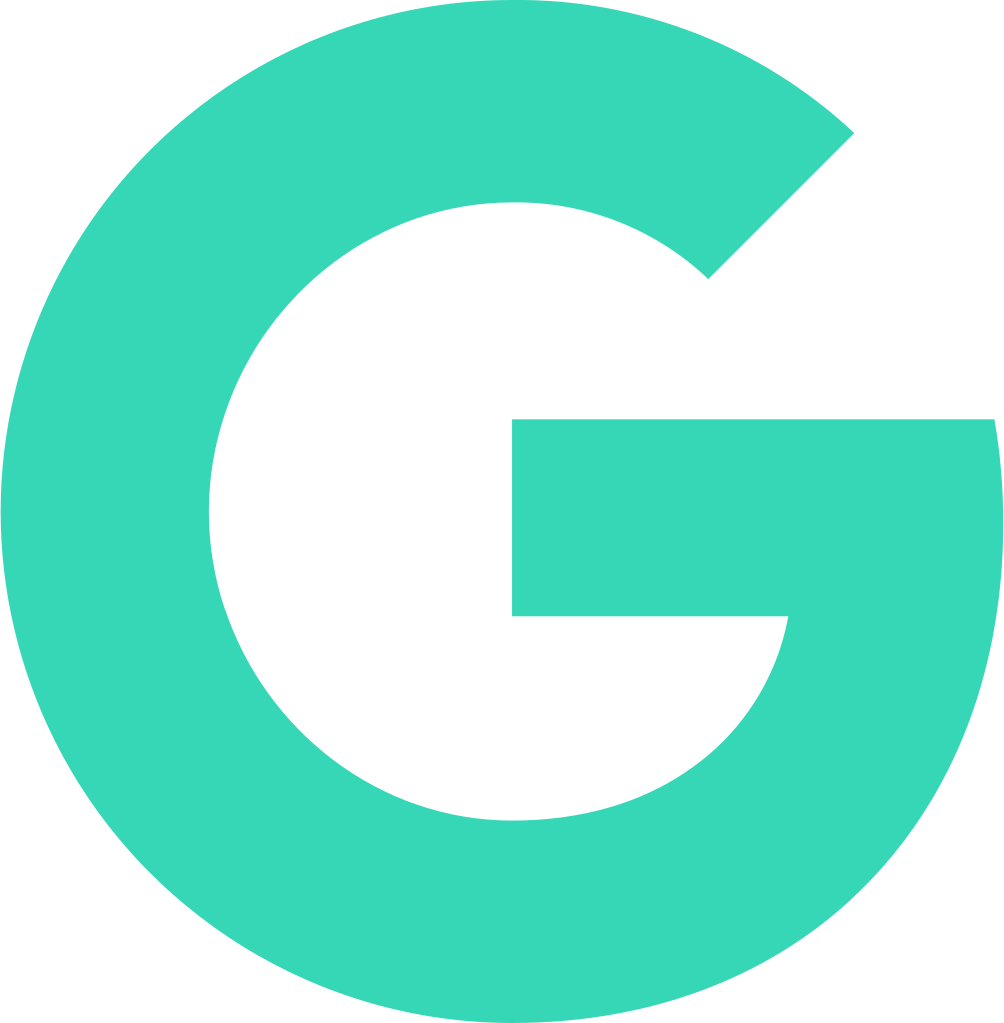
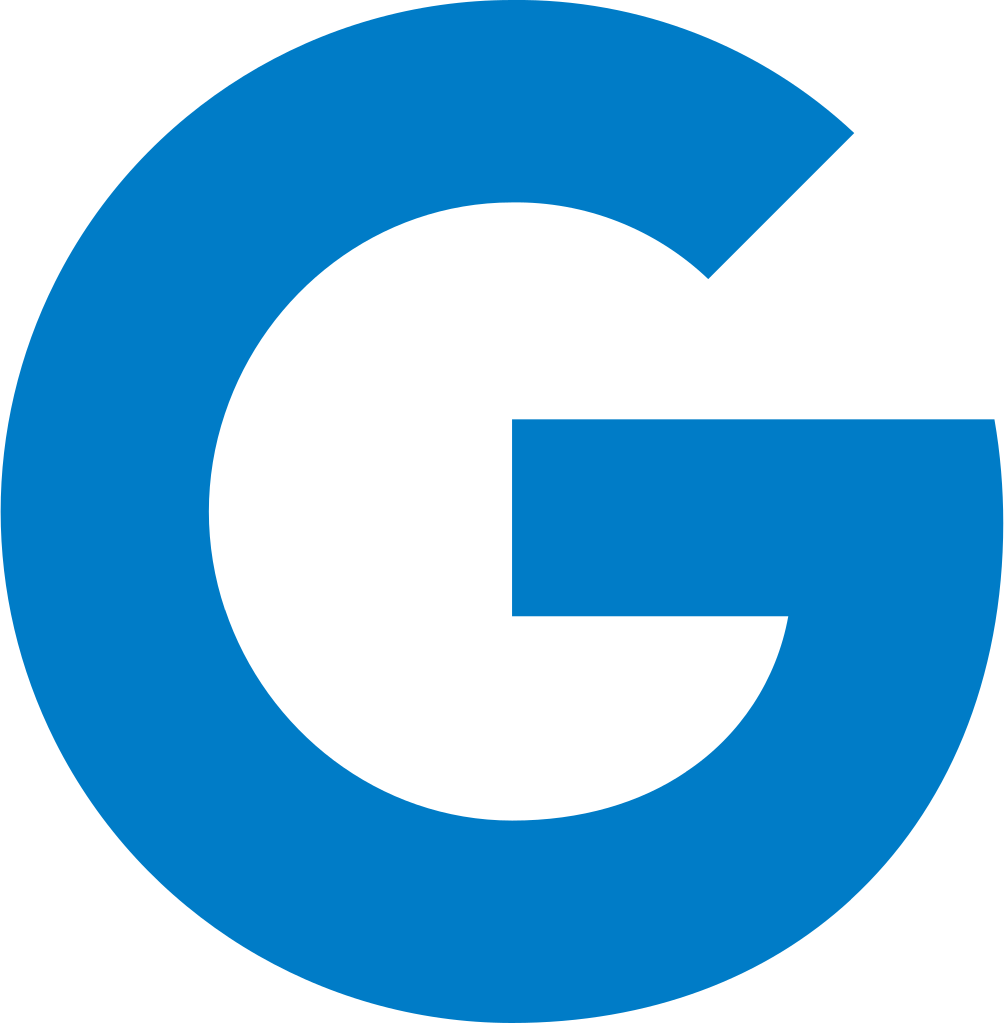
design fixes

diff --git a/src/Components/Elements/Post/Post.jsx b/src/Components/Elements/Post/Post.jsx
@@ -27,7 +27,9 @@ const Post = ({ data, makeBet, currentUser }) => {
   return (
     <div className="container-post">
       <div className="card my-2">
-        <div className="card-name">{data.post.title}</div>
+        <div className="card-name">
+          <h3 style={{ fontWeight: "600" }}>{data.post.title}</h3>
+        </div>
         <hr style={{ width: "100%", color: "#007cc7" }} />
         <div className="card-title">
           <div className="card-info px-3">
@@ -69,7 +71,11 @@ const Post = ({ data, makeBet, currentUser }) => {
         <div className="commentBox">
           {data.comments.map((el) => (
             <div className="commentOne my-1">
-              <img src={el.photoURL} alt="photo" style={{ width: "13%" }} />
+              <img
+                src={el.photoURL}
+                alt="photo"
+                style={{ width: "70px", height: "70px" }}
+              />
               <div className="commentLeft">
                 <p>{el.displayName}</p>
                 <p>{el.createdAt}</p>

diff --git a/src/Components/Pages/Comment/CommentMessage.jsx b/src/Components/Pages/Comment/CommentMessage.jsx
@@ -1,17 +1,14 @@
-import { useContext, useState } from "react"
+import { useContext, useState } from "react";
 import { AuthContext } from "../../../Context/AuthContext";
 
-
 const CommentMessage = ({ text, uid, photoURL, displayName }) => {
+  const [userName, setUserName] = useState("");
 
-  const [userName, setUserName] = useState('');
-  
-  const {currentUser} = useContext(AuthContext);
-  console.log(uid, 'uid');
-  console.log(currentUser, 'user')
+  const { currentUser } = useContext(AuthContext);
+  console.log(uid, "uid");
+  console.log(currentUser, "user");
 
- const commentsClass = uid === currentUser.uid ? 'sent' : 'received'
-
+  const commentsClass = uid === currentUser.uid ? "sent" : "received";
 
   return (
     <div className="mesDes my-2">
@@ -33,4 +30,4 @@ const CommentMessage = ({ text, uid, photoURL, displayName }) => {
   );
 };
 
-export default CommentMessage
+export default CommentMessage;

diff --git a/src/Components/Pages/Register/Register.css b/src/Components/Pages/Register/Register.css
@@ -12,25 +12,23 @@
 }
 
 .glass input {
-  background: linear-gradient(
-    to right bottom,
-    rgba(255, 255, 255, 0.7),
-    rgba(255, 255, 255, 0.3)
-  );
+  background-color: #eefbfb;
   border: none;
   padding: 1rem;
   border-radius: 2rem;
   outline: none;
   text-align: center;
-  width: 40vw;
+  width: 20vw;
   margin: 10px;
 }
 
 .glass button {
-  background: linear-gradient(to right top, #65dfc9, #6cdbeb);
-  border-radius: 1rem;
+  background-color: #007cc7;
+  color: #eefbfb;
+  border-radius: 20px;
   padding: 0.7rem 4rem;
   border: none;
   margin: 10px;
-  width: 40vw;
+  margin-top: 50px;
+  width: 20vw;
 }

diff --git a/src/Components/Elements/Post/Post.css b/src/Components/Elements/Post/Post.css
@@ -7,7 +7,7 @@ p {
   background-color: #007cc7;
   color: #eefbfb;
   border-radius: 20px;
-  padding: 0.7rem 4rem;
+  padding: 0.2rem 2rem;
   border: none;
   margin: 10px;
   outline: none;
@@ -45,10 +45,15 @@ p {
   width: 100%;
   margin: 10px;
 }
-
 .commentLeft {
+  width: 11vw;
+}
+
+.commentLeft p {
   display: flex;
   flex-direction: column;
+
+  color: #eefbfb;
 }
 
 .card-name {
@@ -78,10 +83,14 @@ p {
 
 .commentBox p {
   font-size: 15px;
-  color: black;
+  color: #eefbfb;
 }
 
 .commentOne {
   display: flex;
   flex-direction: row;
+  align-items: ;
+}
+.commentOne img {
+  border-radius: 50%;
 }

diff --git a/src/index.css b/src/index.css
@@ -12,19 +12,18 @@
 }
 
 body {
-  background: linear-gradient(to right top, #65dfc9, #6cdbeb);
-  height: 100vh;
   overscroll-behavior-y: none;
+  height: 100vh;
 }
 
 .dashboard {
   display: flex;
   align-items: center;
-  justify-content: space-around;
+  justify-content: space-evenly;
   flex-direction: column;
   text-align: center;
   background-color: #007cc7;
-  width: 500px;
+  width: 25vw;
   height: 100vh;
 }
 

diff --git a/src/Components/Pages/Register/Register.jsx b/src/Components/Pages/Register/Register.jsx
@@ -39,8 +39,7 @@ const Register = () => {
         placeholder="Введите пароль"
         onChange={changeRegisterHandler}
       />
-      <p>Загрузить фото профиля:</p>
-      <input type="file" />
+
       <button className="btn btn-primary" onClick={() => SignUp(inputs)}>
         Регистрация
       </button>

diff --git a/src/Components/Layout/Menu/Menu.css b/src/Components/Layout/Menu/Menu.css
@@ -3,6 +3,6 @@
   font-family: "Open Sans", sans-serif;
   color: #eefbfb;
   font-weight: 600;
-  font-size: 2rem;
+  font-size: 24px;
   opacity: 0.8;
 }

diff --git a/src/Components/Layout/Main/Main.css b/src/Components/Layout/Main/Main.css
@@ -1,5 +1,5 @@
 .main {
-  width: 1440px;
+  width: 75vw;
   height: 100vh;
   background-color: #12232e;
   display: flex;
